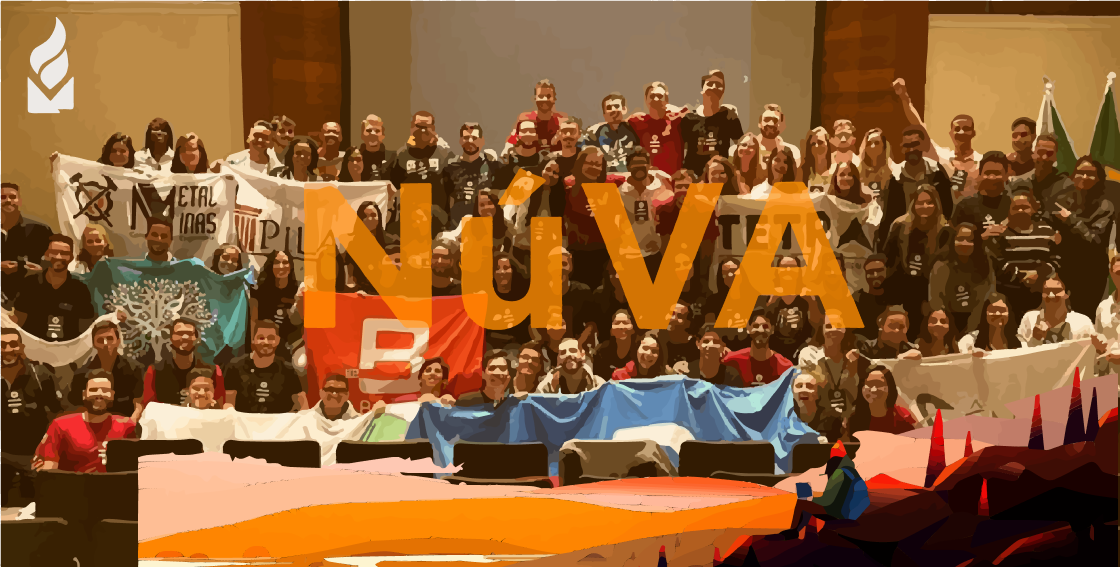
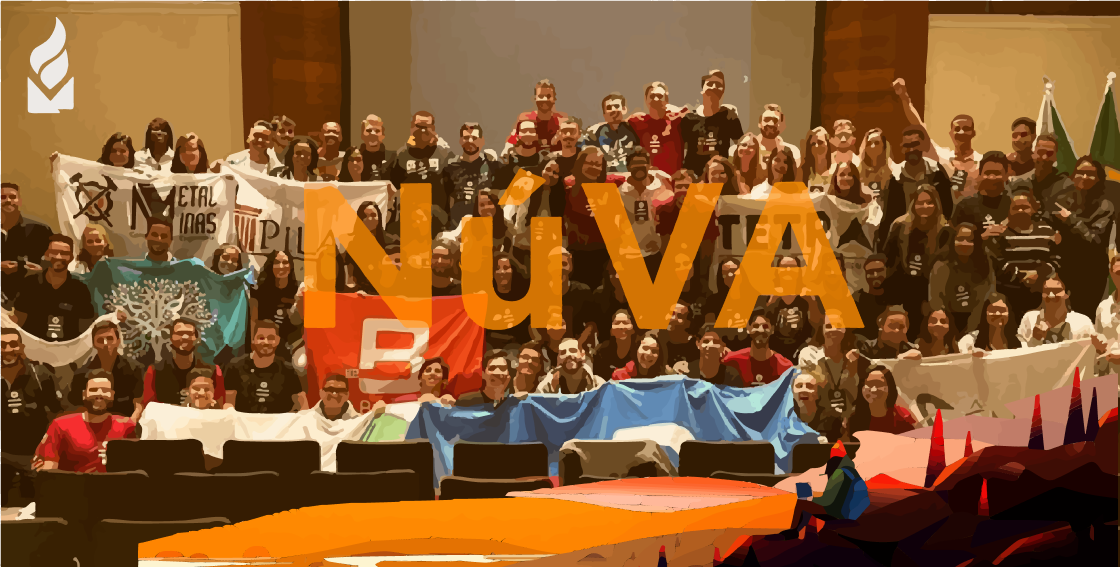
style: fixes responsiveness on hero section

Changed region(s): [[0.125, 0.7795, 0.5, 0.9594]]

diff --git a/src/pages/Home/components/HeroSection/styles.ts b/src/pages/Home/components/HeroSection/styles.ts
@@ -6,60 +6,72 @@ export const HeroSection = styled('div', {
   flexDirection: 'column',
   alignItems: 'center',
 
-  height: 680,
+  position: 'relative',
+  height: '100vh',
+  width: '100vw',
+
+  '@media (max-width: 660px)': {
+    height: '85vh',
+  },
 })
 
-export const HeroImage = styled(Image, {})
+export const HeroImage = styled(Image, {
+  objectFit: 'cover',
+  marginLeft: 'auto',
+  marginRight: 'auto',
+  maxWidth: 1120,
+
+  '@media (max-width: 660px)': {
+    maxHeight: 354,
+  },
+})
 
 export const HeroTitle = styled('div', {
+  position: 'relative',
   display: 'flex',
-  width: 'fit-content',
-  height: 'fit-content',
   backgroundColor: '$brown500',
+  alignSelf: 'flex-start',
+  marginLeft: '5%',
+  transform: 'translateY(150%)',
+
+  fontSize: '$3xl',
+  lineHeight: '$2xl',
+  fontWeight: '$bold',
+  color: '$white',
+
+  padding: '12px 24px',
   borderRadius: 25,
 
-  transform: 'translateY(-220px) translateX(-300px)',
+  p: {
+    color: '$brown950',
+  },
 
-  span: {
+  '@media (min-width: 660px)': {
     fontSize: '$6xl',
+    lineHeight: '$4xl',
+    transform: 'translateY(125%)',
+
+    backgroundColor: 'rgba(183, 89, 25, 0.8)',
+  },
+
+  '@media (min-height: 520px)': {
+    backgroundColor: '$brown500',
+    transform: 'translateY(0)',
+    marginTop: '60vh',
+  },
+
+  '@media (min-height: 520px) and (max-width: 660px)': {
+    backgroundColor: '$brown500',
+    marginTop: 0,
+    transform: 'translateY(125%)',
+  },
+
+  '@media (max-height: 450px)': {
+    transform: 'translateY(0)',
+    marginTop: '50vh',
+    fontSize: '$2xl',
+    lineHeight: '$xl',
     fontWeight: '$bold',
-    lineHeight: '$5xl',
     color: '$white',
-
-    padding: '12px 24px',
-
-    p: {
-      color: '$brown950',
-    },
-  },
-
-  '@media (min-height: 690px)': {
-    transform: 'translateY(-120px) translateX(calc(80vw - 100vw))',
-  },
-
-  '@media (max-width: 1030px)': {
-    transform: 'translateY(-220px) translateX(calc(750px - 100vw))',
-  },
-
-  '@media (max-width: 960px)': {
-    transform: 'translateY(-220px) translateX(-220px)',
-  },
-
-  '@media (max-width: 860px)': {
-    transform: 'translateY(-220px) translateX(calc(630px - 100vw))',
-  },
-
-  '@media (max-width: 640px)': {
-    transform: 'translateY(-150px) translateX(calc(480px - 100vw))',
-
-    span: {
-      fontSize: '$3xl',
-      lineHeight: '$2xl',
-    },
-  },
-
-  '@media (max-width: 600px)': {
-    transform: 'translateY(-150px) ',
-    marginRight: 40,
   },
 })

diff --git a/src/pages/Home/components/HeroSection/index.tsx b/src/pages/Home/components/HeroSection/index.tsx
@@ -4,7 +4,7 @@ import heroImage from '@component/assets/time-nuva.png'
 export function Hero() {
   return (
     <HeroSection>
-      <HeroImage src={heroImage} alt="EJS do Núcleo NúVA" quality={100} />
+      <HeroImage src={heroImage} alt="EJS do Núcleo NúVA" quality={100} fill />
       <HeroTitle>
         <span>
           Juntos, <p>mineramos</p> a mudança!
